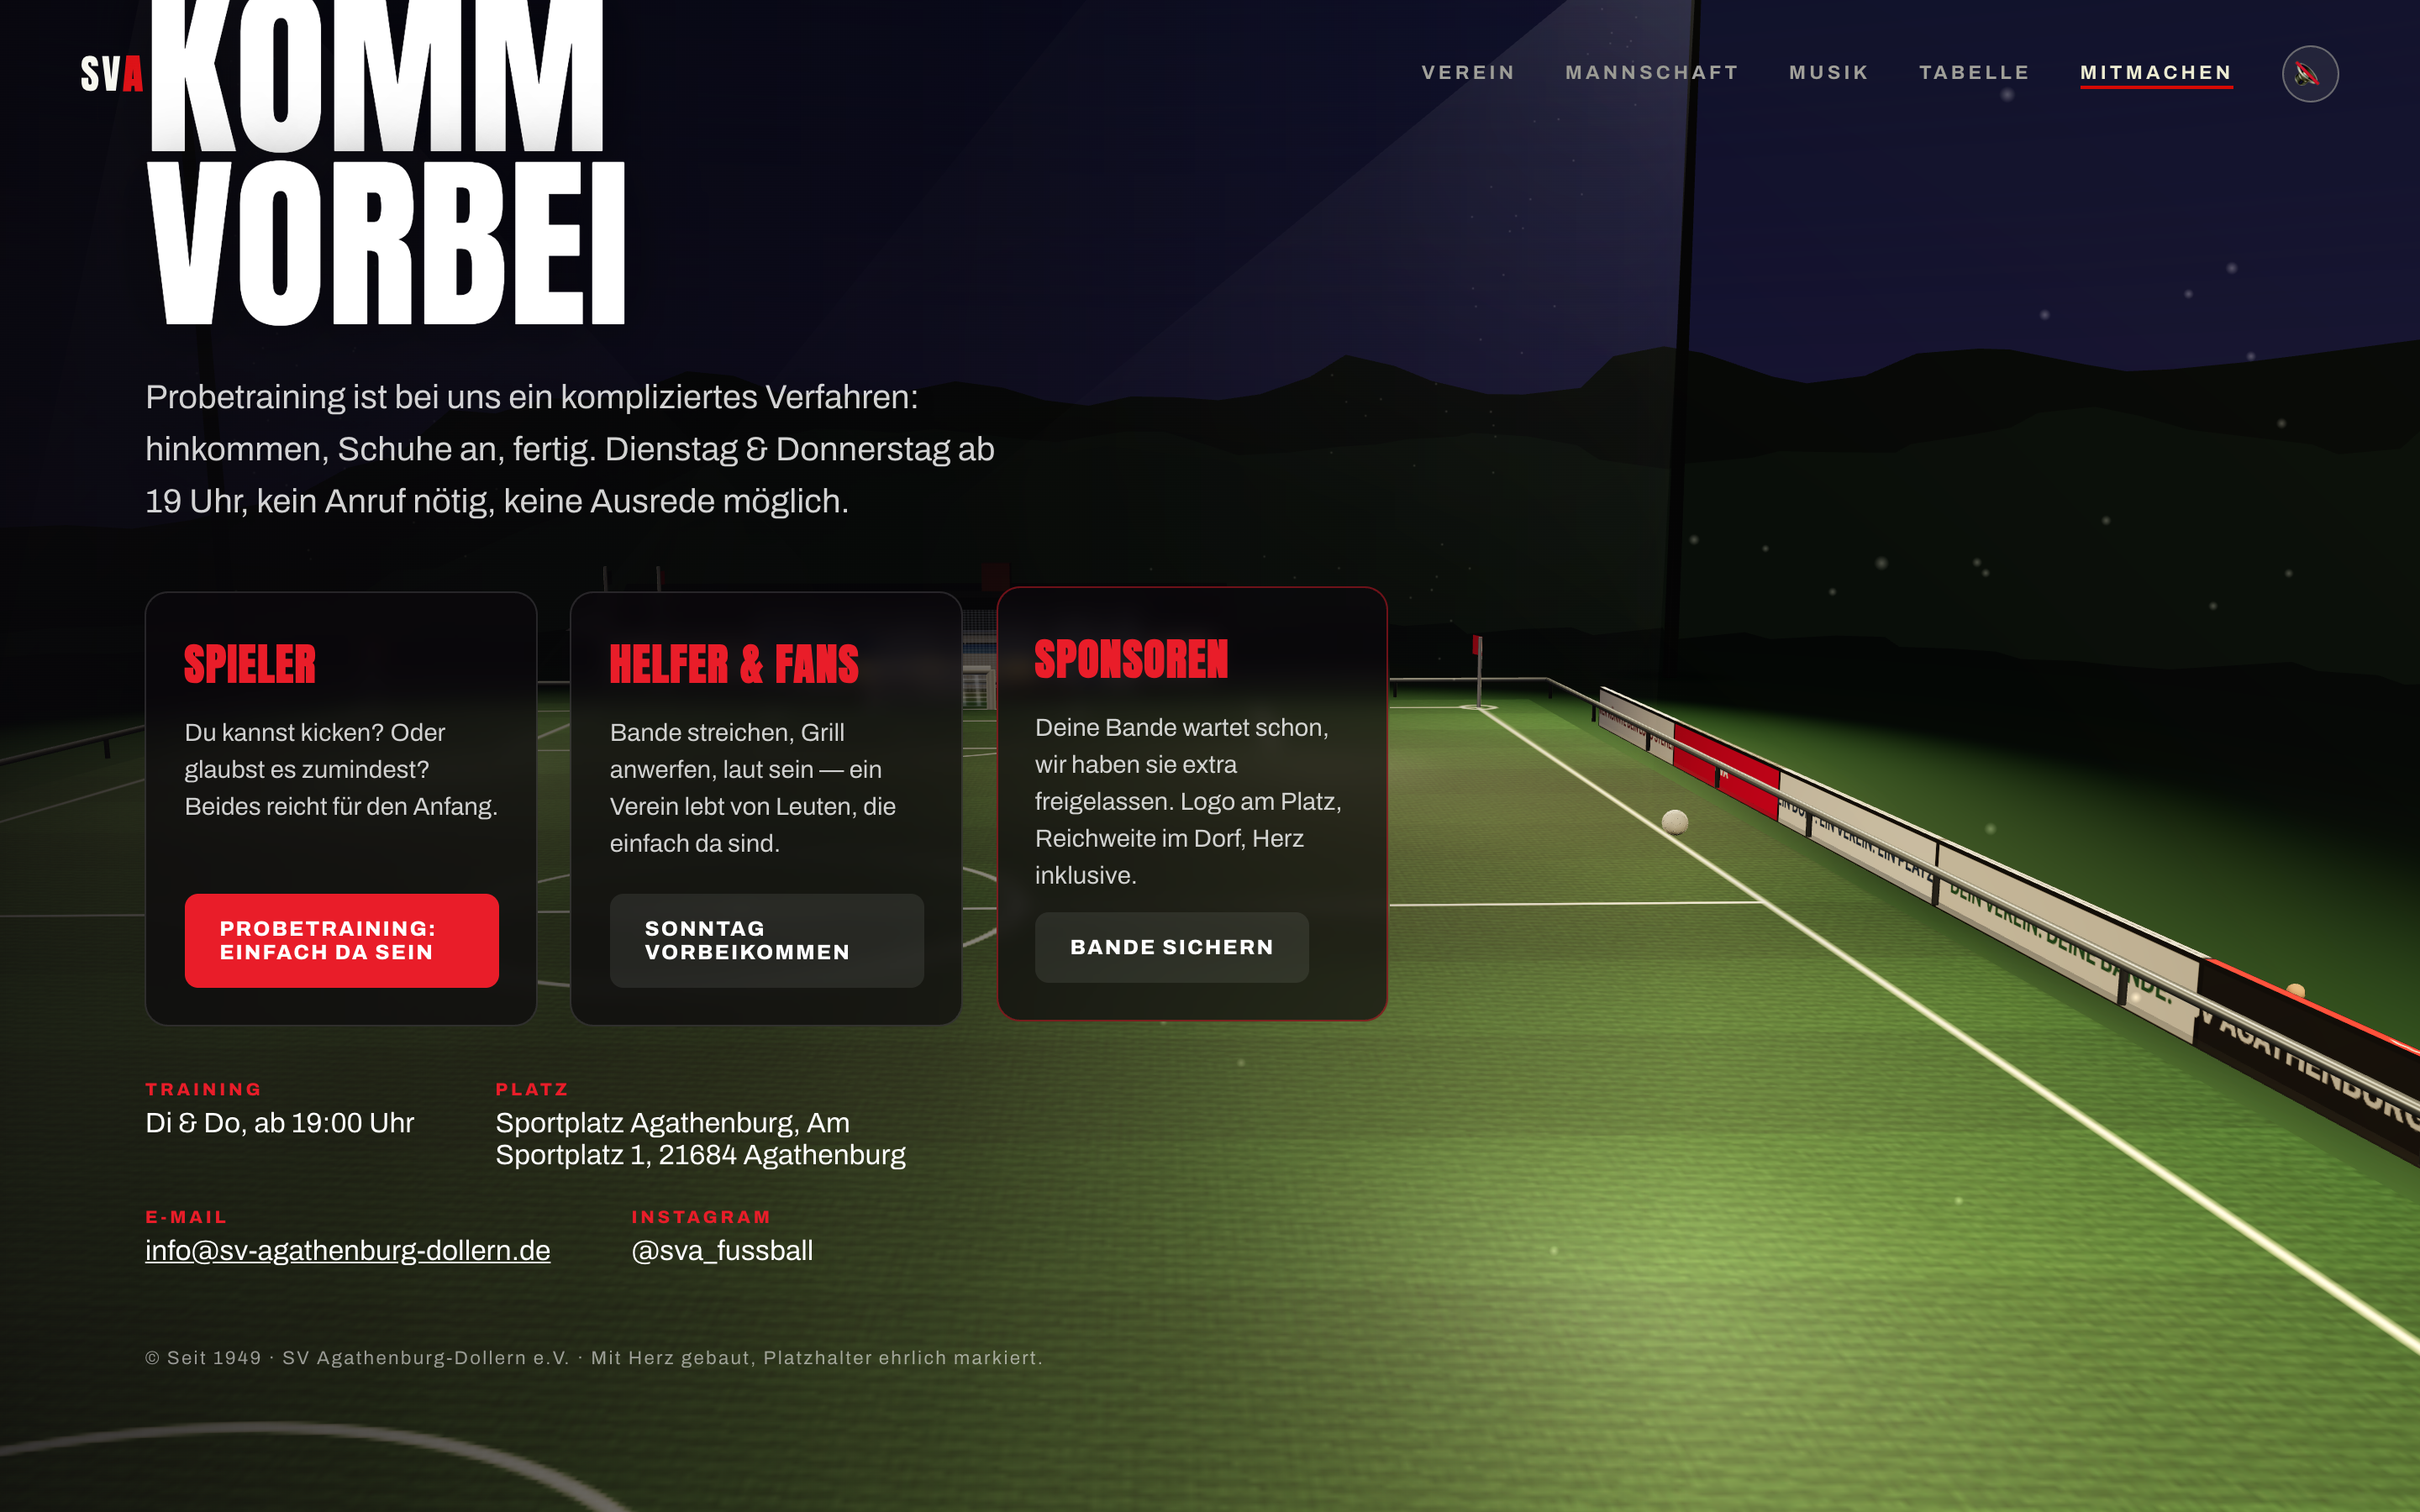
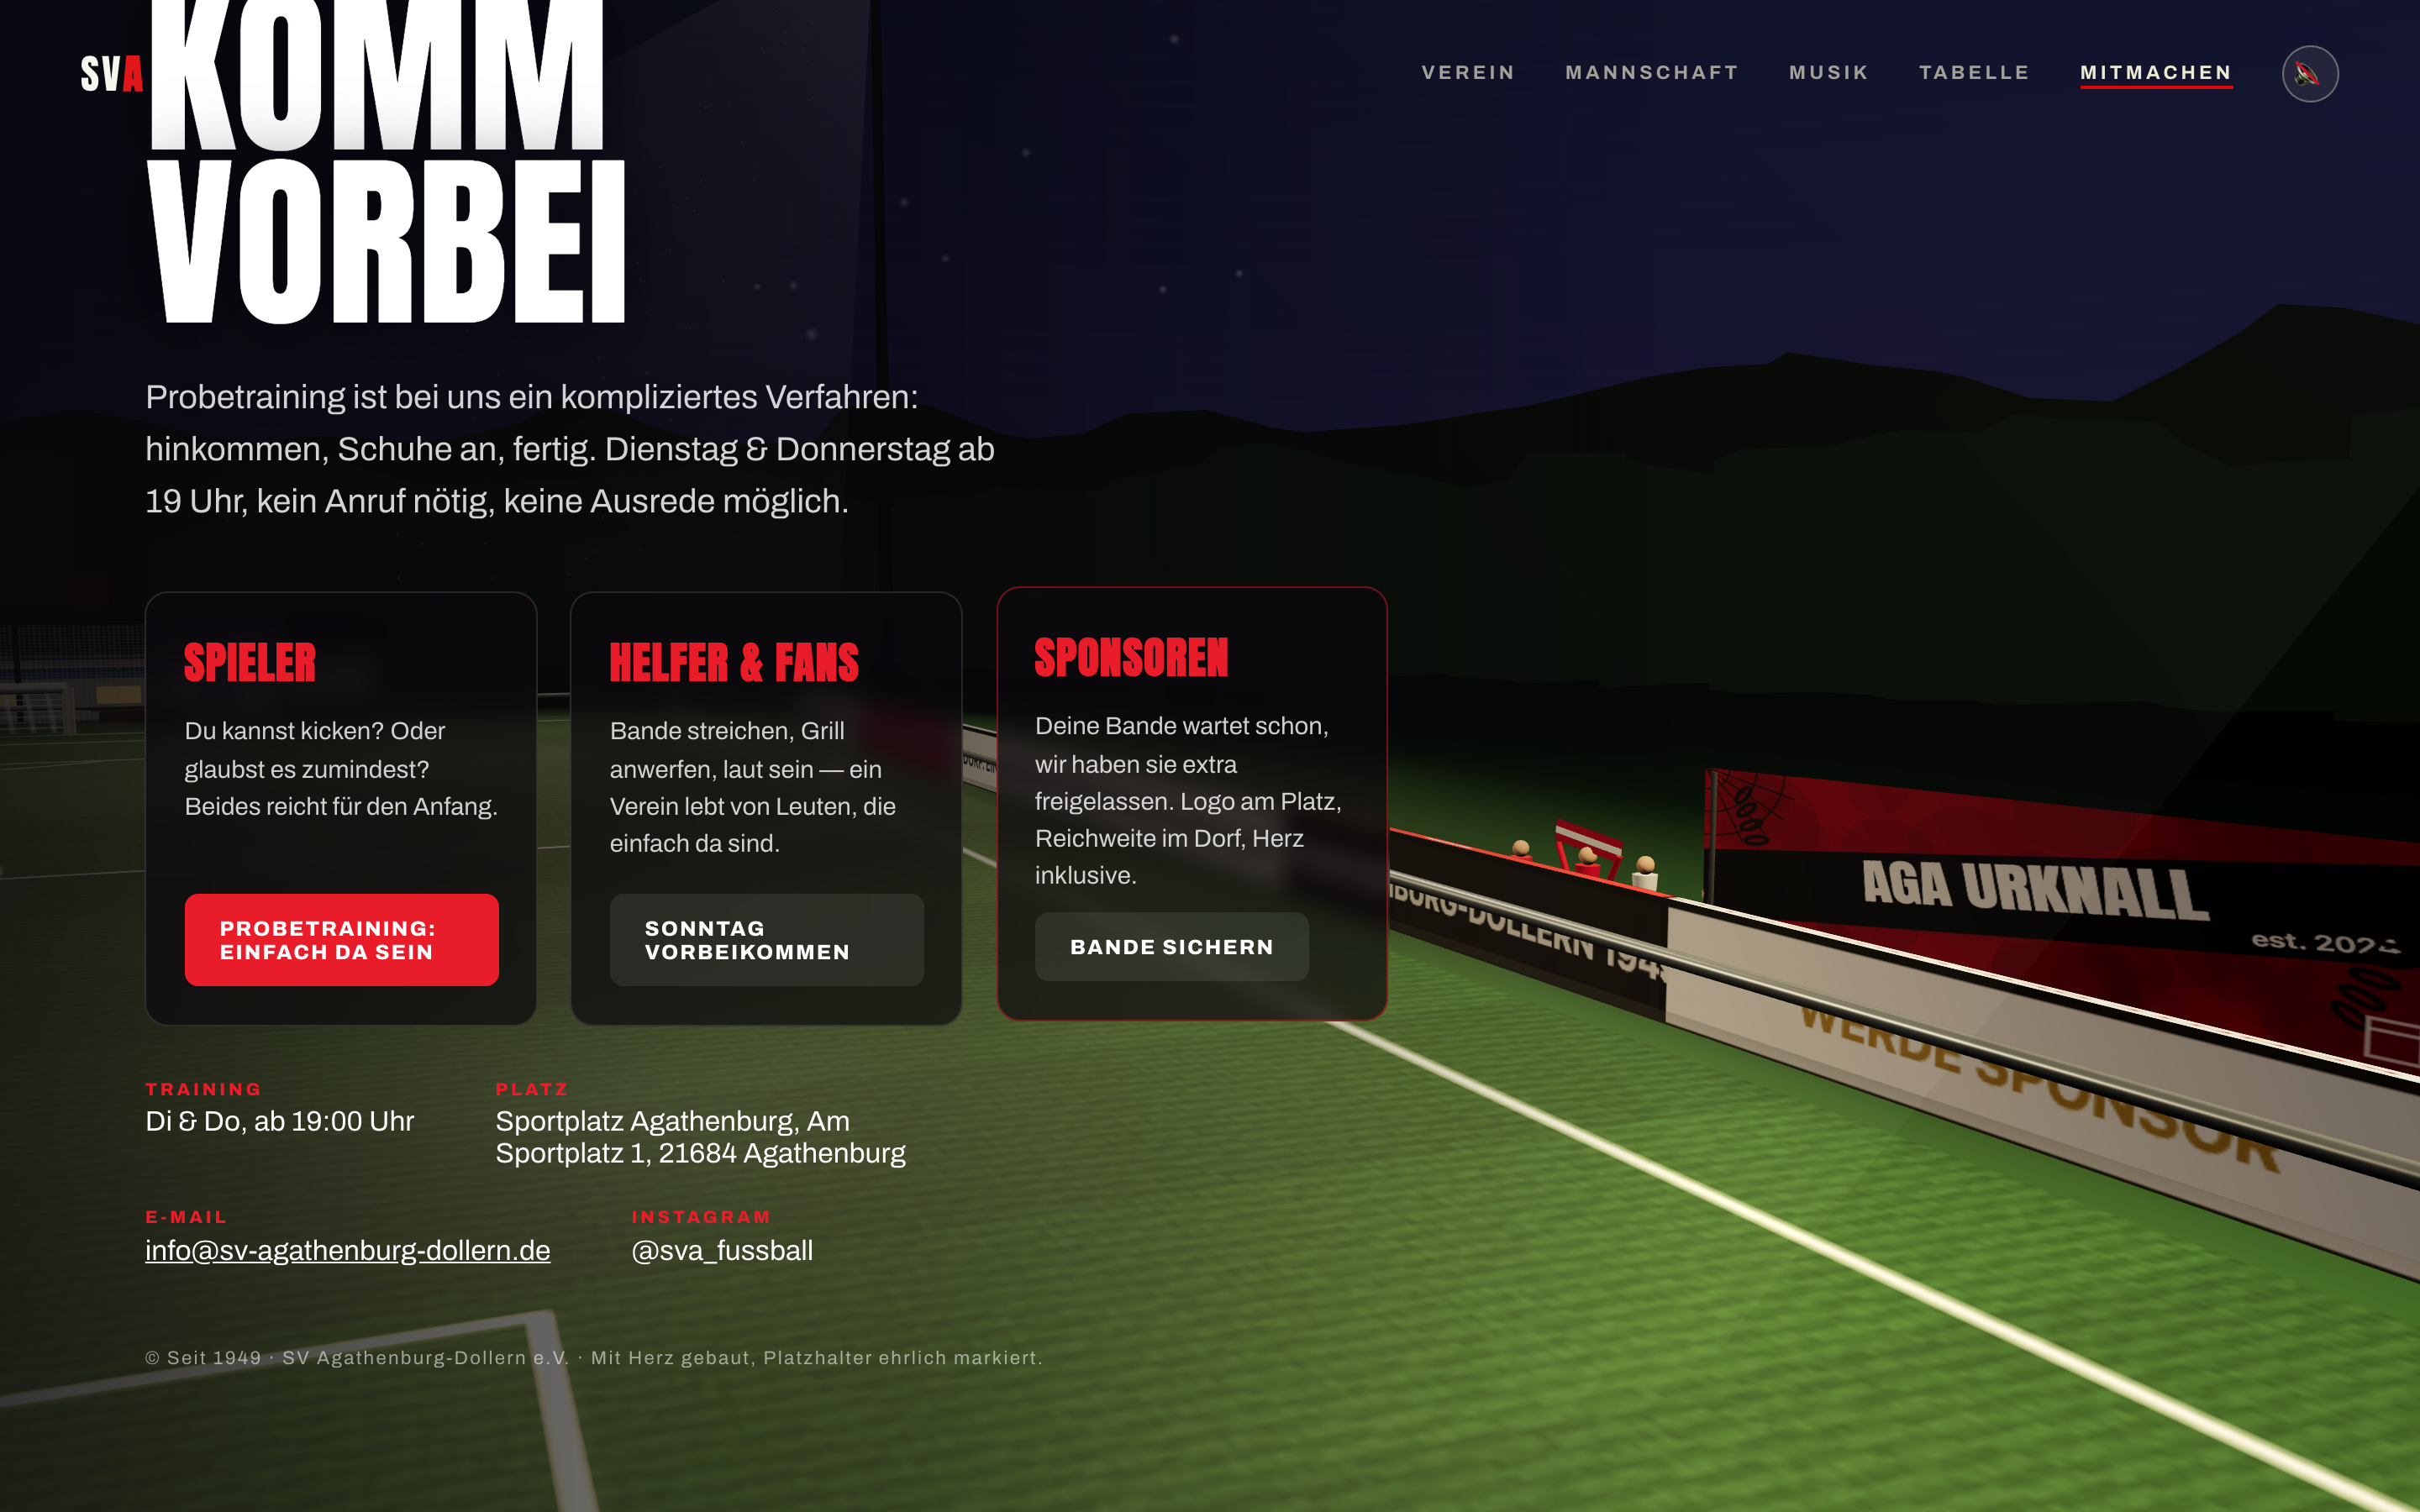
v4 Jury-Loop 1: Finale-Kadrierung, zeitbasiertes Look-Damping, Scores 8,5/8,5/8,3
- Finale-Station neu komponiert: AGA-URKNALL-Banner lesbar in der
  rechten Bildhälfte (DOM links), Fahnen + Platz + Vereinsheim als
  Tiefe — vorher lag der Fanblock am Bildrand
- Look-Damping zeitbasiert (MathUtils.damp statt frame-lerp 0.12):
  Kadrierung konvergiert jetzt auch bei niedriger FPS korrekt;
  der 'leere' Finale-Sweep-Shot war genau dieses Artefakt
- Audit fortgeschrieben: Loop-1-Scores Juror 8,5 / Stratege 8,5 /
  3D 8,3 mit Restpunkten; Frametime-Beleg inkl. ehrlicher Notiz zur
  33-ms-Umgebungsdrossel (about:blank-Baseline identisch)

diff --git a/src/camera/CameraPath.ts b/src/camera/CameraPath.ts
@@ -26,9 +26,10 @@ const STATIONS: Station[] = [
   { pos: new THREE.Vector3(4.6, 0.6, 1.5), look: new THREE.Vector3(7.1, 0.5, -0.35) },
   // 4 · TABELLE — Schwenk zum echten Vereinsheim hinter dem Ost-Tor
   { pos: new THREE.Vector3(4.0, 0.85, 3.1), look: new THREE.Vector3(7.15, 0.32, -0.5) },
-  // 4 · KONTAKT/FINALE — Schwenk in die Fanblock-Ecke SW:
-  //     Banner + Figuren nah, der beleuchtete Platz im Hintergrund
-  { pos: new THREE.Vector3(-5.7, 1.35, 1.35), look: new THREE.Vector3(-3.3, 0.28, 4.7) },
+  // 5 · KONTAKT/FINALE — Schwenk in die Fanblock-Ecke SW: das
+  //     AGA-URKNALL-Banner lesbar in der rechten Bildhälfte (DOM
+  //     lebt links), der beleuchtete Platz + Vereinsheim dahinter
+  { pos: new THREE.Vector3(-5.6, 0.8, 1.9), look: new THREE.Vector3(-2.5, 0.45, 3.3) },
 ]
 
 export const STATION_COUNT = STATIONS.length

diff --git a/src/camera/CameraRig.tsx b/src/camera/CameraRig.tsx
@@ -72,7 +72,12 @@ export function CameraRig() {
     pos.current.y += Math.sin(t * 0.23 + 1.3) * 0.08 * sway
 
     camera.position.copy(pos.current)
-    currentLook.current.lerp(look.current, 0.12)
+    // zeitbasiert (nicht pro Frame): konvergiert auch bei niedriger FPS
+    currentLook.current.set(
+      THREE.MathUtils.damp(currentLook.current.x, look.current.x, 7.5, delta),
+      THREE.MathUtils.damp(currentLook.current.y, look.current.y, 7.5, delta),
+      THREE.MathUtils.damp(currentLook.current.z, look.current.z, 7.5, delta),
+    )
     camera.lookAt(currentLook.current)
   })
 

diff --git a/SVA_AUDIT_V4.md b/SVA_AUDIT_V4.md
@@ -47,6 +47,39 @@ ohne runde Map). (d) Ball im Hero kaum sichtbar (Stilisierungs-Kompromiss v3).
 |---|---|---|---|---|
 | 0 (Start) | 7,0 | 5,5 | 7,5 | Ausgangslage |
 | nach E1–E3 | — | ~7,5* | **8,0** | Copy+Musik-Sektion+3D-Fixes; *Zwischenwert, Jury-Loop folgt |
+| Loop 1 | **8,5** | **8,5** | **8,3** | Kurskorrektur Musik=Partyraum + F1–F5, s.u. |
+
+## Loop 1 (Etappe 6) — Fixes & Neubewertung
+
+**Kurskorrektur (Marvin):** Musik-Sektion IST der Partyraum — scroll-getriebener
+Dip-to-Black-Schnitt ins Vereinsheim, Musik lebt nur noch im Raum (draußen Atmo +
+Mute), Trackliste mit Cover-2 + Story + Streaming-Slots drinnen. MusicDock/
+Hütten-Boombox/Party-Buttons entfernt. Das löst Juror-Schwäche (c) und den
+Stratege-Punkt (e) auf einen Schlag — die Welt erzählt die Musik selbst.
+
+**Fixes:** F1 Finale-Grid schmaler; F2 Micro-Interactions (Nav-Underline, Button-
+Lift, Track-Hover); F4 Banner/Trikots; F5 Barkeeper sichtbar; NEU: Finale-Station
+neu kadriert (AGA-URKNALL-Banner lesbar rechts, DOM links — vorher Banner am
+Bildrand), Look-Damping zeitbasiert statt frame-basiert (Framing konvergiert
+jetzt auch bei niedriger FPS).
+
+- **Juror 8,5:** Der Musik-Schnitt ist jetzt ein zweiter Signature-Moment; Nav
+  „Musik" → Raum ist mutig und konsistent (ein Weg, ein Ort). Restpunkte: Raum-
+  Requisiten (Flaschen lesen als Zylinder), Übergang Musik→Tabelle springt vom
+  Raum direkt vor dieselbe Fassade.
+- **Stratege 8,5:** Sound-Dramaturgie stimmt jetzt inhaltlich (Stadion draußen,
+  Party drinnen); Story-Block mit est.-2024-Fakt; jede Sektion hat einen CTA.
+  Restpunkt: Streaming-Slots bleiben „bald" (Marvin-To-do).
+- **3D 8,3:** Finale-Kadrierung sitzt (Banner+Fahnen rechts, Platz als Tiefe);
+  Raum liest sich warm. Restpunkte: Flaschen/Requisiten-Detail, Fanblock-Figuren
+  hinterm Banner nur als Köpfe sichtbar.
+
+**Frametime Loop 1:** Direkt nach der Kurskorrektur gemessen: 16,5–17,2 ms an
+allen 5 Stationen inkl. Partyraum (60 FPS). Spätere Messung zeigte uniform
+33 ms — aber auch `about:blank` lief bei 33 ms → globale rAF-Drossel der
+Maschine (30 Hz Displayzustand), kein Szenen-Delta: Szene = Baseline an jeder
+Station. Gate gilt mit der 16,6-ms-Messung als gehalten; wird in Loop 2 erneut
+verifiziert.
 
 **3D-Neubewertung (Etappe 3):** Fassaden-Textur (Fenster/Sockel/Putz) + Regenrinne,
 Portrait-Kamera (Mobile-Hero jetzt komponiert), runde Dust-Partikel, weichere